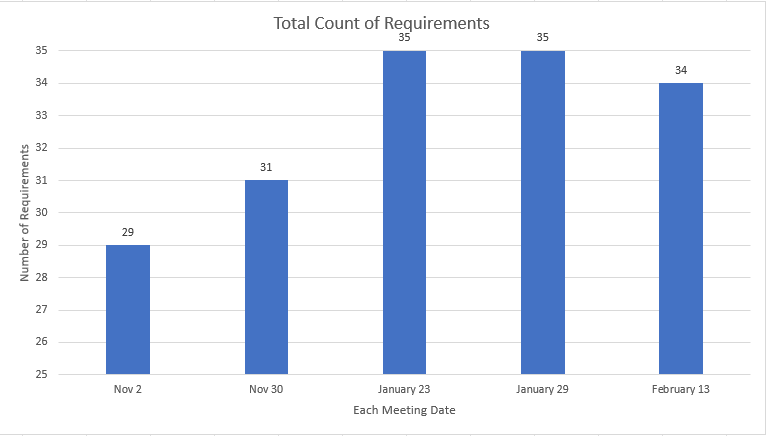
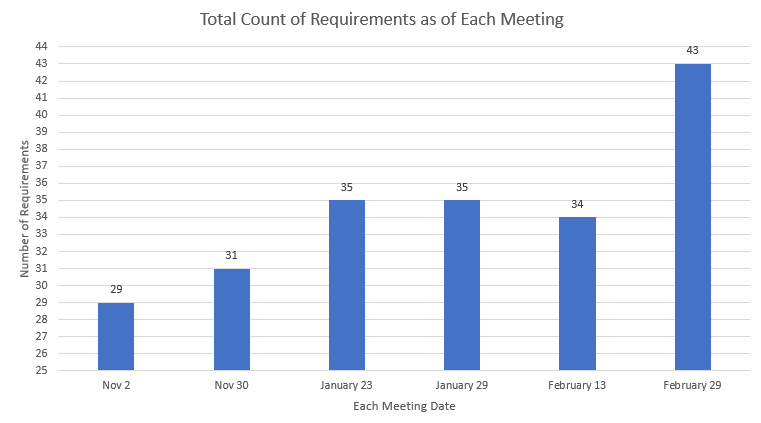
updated the team website

diff --git a/processmetrics.html b/processmetrics.html
@@ -22,21 +22,25 @@
         <p>
         
             <strong>Requirements:</strong>
-            <br>The requirements for this application that has to be done.
-            <br>We will track the total count of the requirements for the project and display them in the chart here.
+            <br>The requirements as of each meeting for this application.
+            <br>We will maintain a dynamic chart to document the cumulative count of project requirements. 
+            <br>This chart will be regularly updated to reflect any new requirements identified during each meeting, 
+            <br>ensuring accurate tracking and management of project specifications. 
+            <br>
             <br> Current requirements count for <b>Log in</b>: 3
             <br> Current requirements count for <b>Home Page</b>: 2
-            <br> Current Total requirements count for <b>Measurement Pages</b>: 25
-            <br> Measurement Pages Requirements Breakdown:
-            <br> - Buildings List: 2
+            <br> Current Total requirements count for <b>List Pages</b>: 24
+            <br> List Pages Requirements Breakdown:
+            <br> - Order List: 3
+            <br> - Building List: 4
             <br> - Floors List: 4
             <br> - Units List: 4
             <br> - Rooms List: 4
-            <br> - Windows List: 6
-            <br> - Window Measurement Page: 5
-            <br> Current requirements count for <b>Side Bar</b>: 3
+            <br> - Windows List: 5
+            <br> Current requirements count for <b>Measurement Page</b>: 8
+            <br> Current requirements count for <b>Side Bar</b>: 5
             <br> Help Button(Non-MVP): 1
-            <br> <strong>Total Amount of Requirements: 34</strong>
+            <br> <strong>Total Amount of Requirements: 43</strong>
             <br>
             <img src="images/RequirementsMetric.png" alt="Requirements after Each Sponsor Meeting">
         </p>
@@ -45,7 +49,7 @@
             <strong>Active Code Branche:</strong>
             <br> The number of active branches in source control. It can give insights into the parallel development efforts.
             <br>
-            <strong>There are currently 17 active branches right now in our wexenergy_app github repo.</strong> 
+            <strong>There are currently 20 active branches right now in our wexenergy_app github repo.</strong> 
             <br>
             <img src="images/Branches.png" alt="Branches">
 
